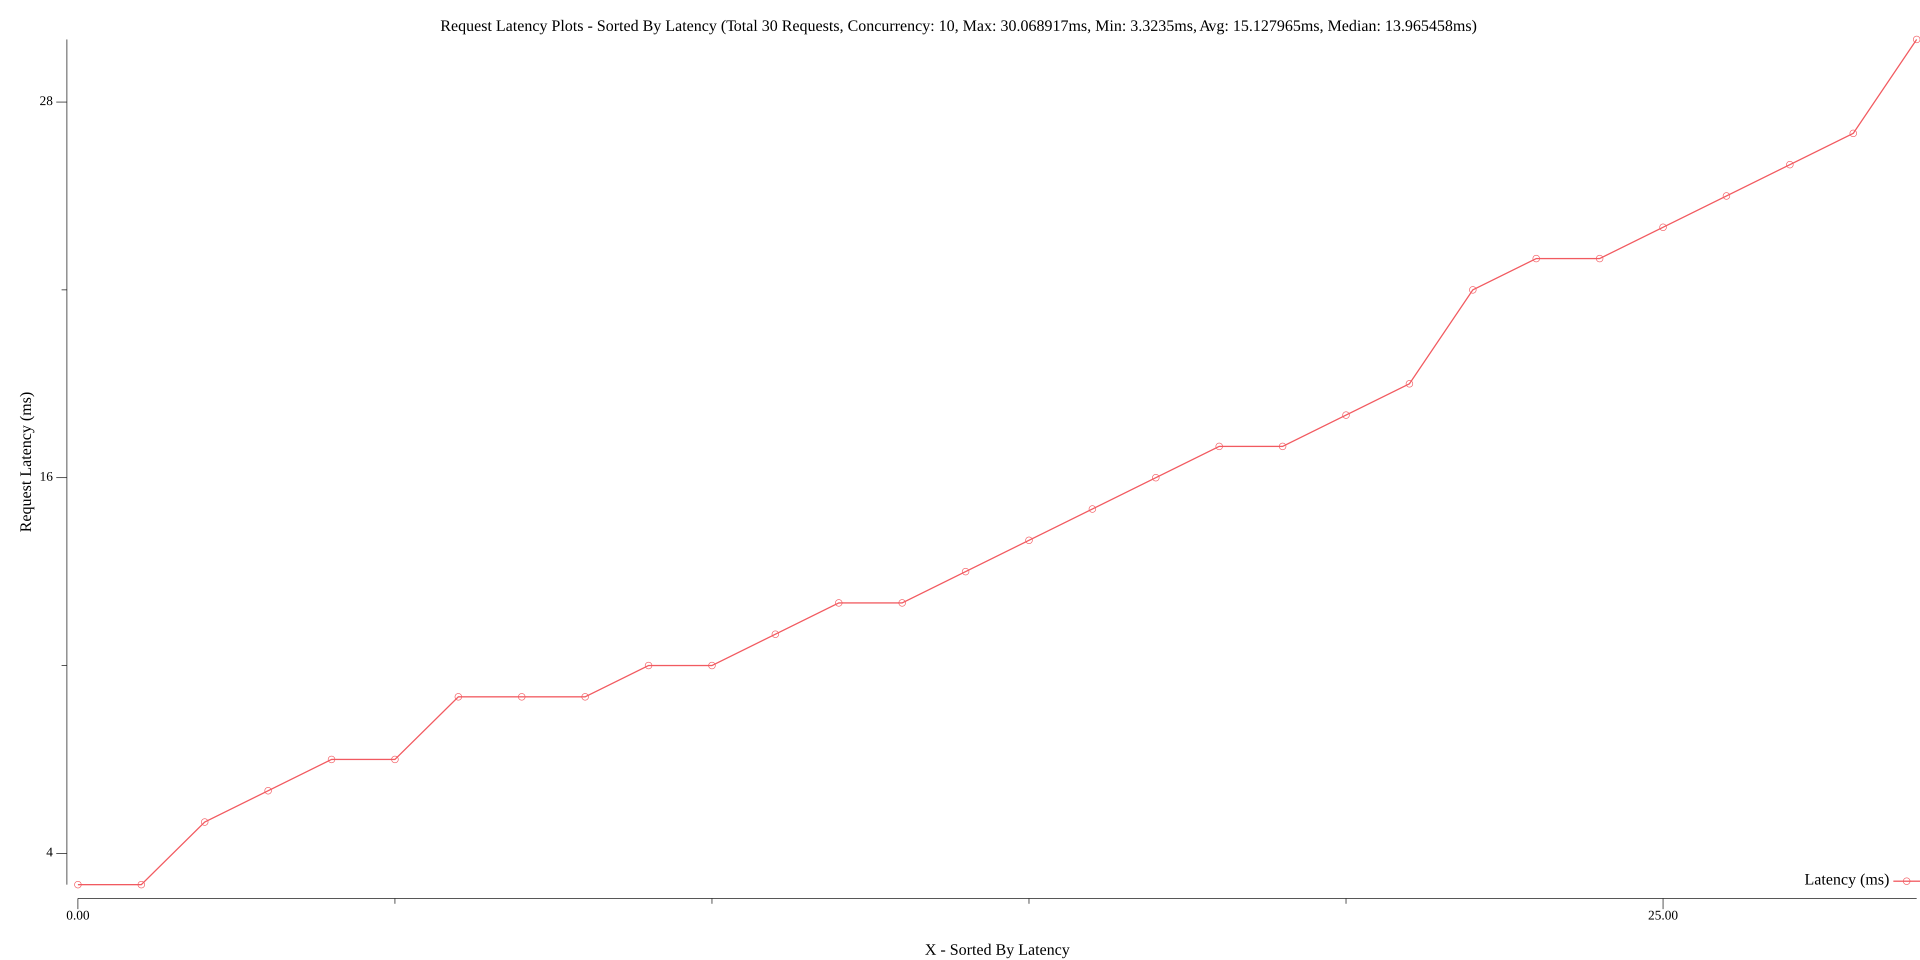
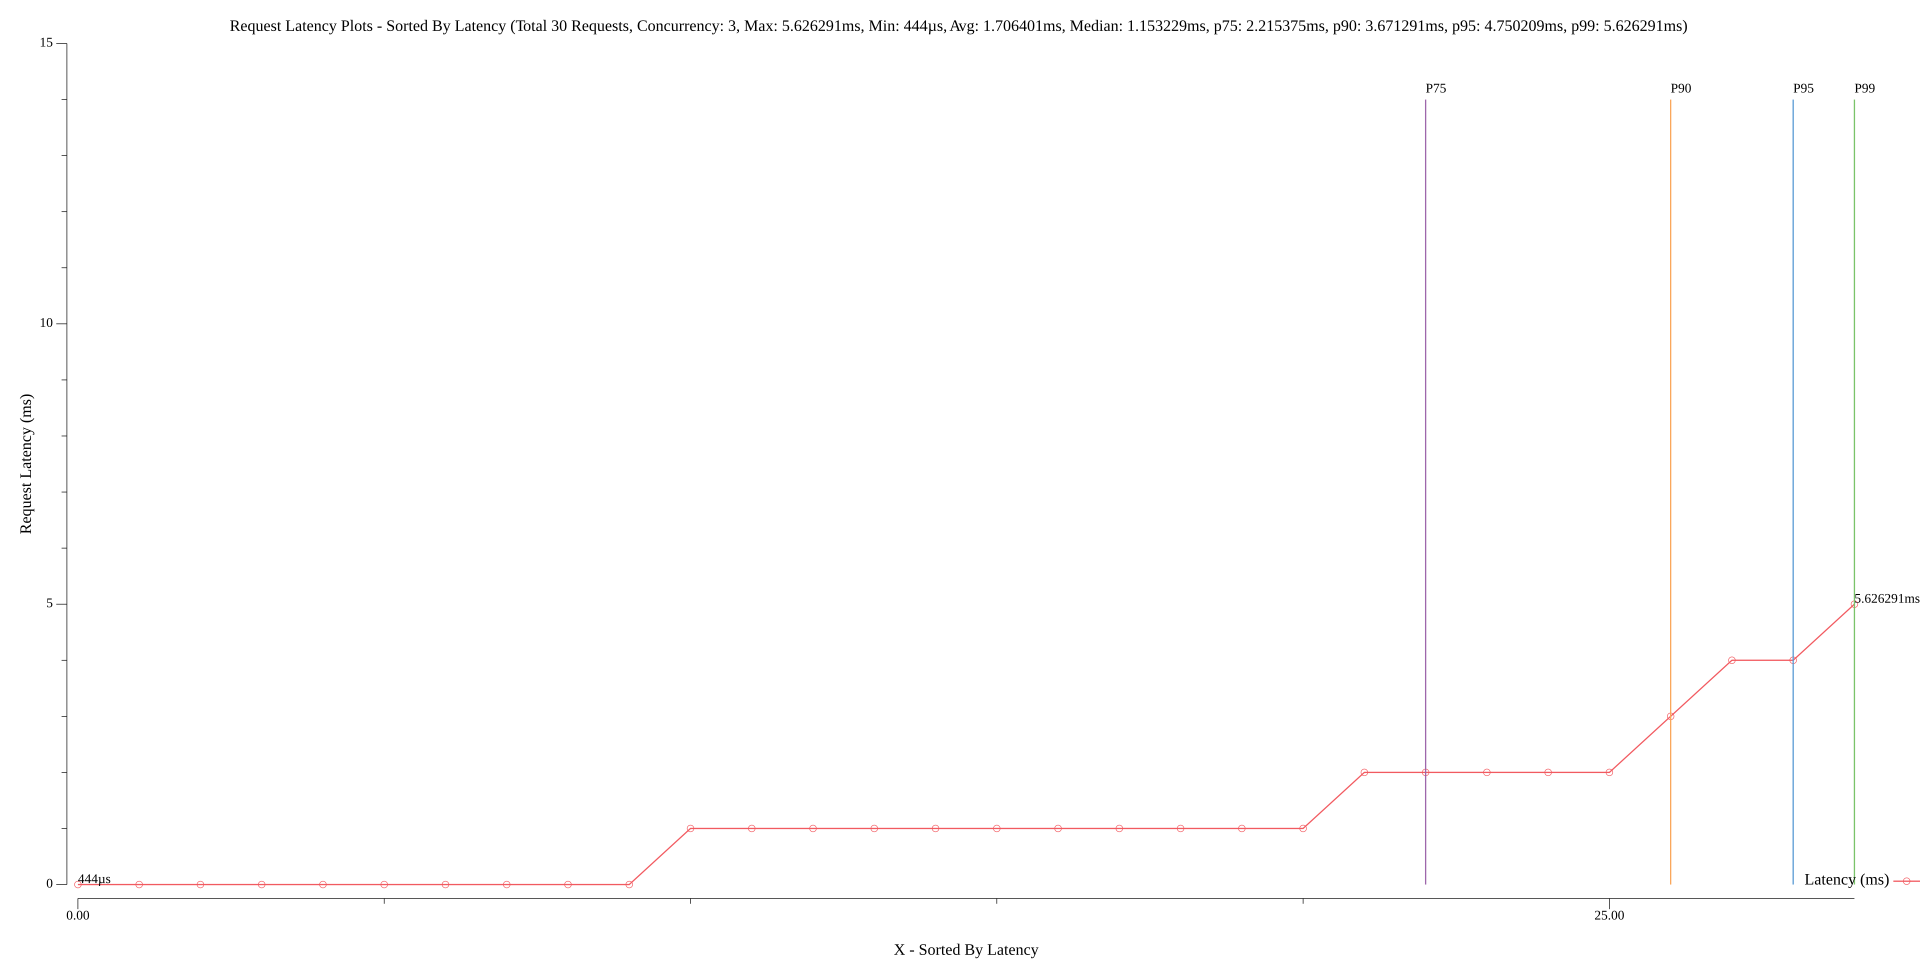
Modified:  README.md Modified:  demo/plots_sorted_by_latency.png Modified:  demo/plots_sorted_by_request_order.png Modified:  test/benchmark_test.go

diff --git a/test/benchmark_test.go b/test/benchmark_test.go
@@ -18,7 +18,7 @@ func TestStartBenchmark(t *testing.T) {
 				Success:    statusCode == 200,
 			}
 		})
-	concurrent := 10
-	round := 50
+	concurrent := 3
+	round := 10
 	benchmarker.StartBenchmark(concurrent, round, sendRequest)
 }

diff --git a/README.md b/README.md
@@ -3,94 +3,76 @@
 ## Demo
 
 ```golang
-unknownErr := func(err error) benchmarker.Result {
-    return benchmarker.Result{
-        HttpStatus: 0,
-        Success:    false,
-        Extra: map[string]any{
-            "ERROR": err.Error(),
-        },
-    }
+func TestStartBenchmark(t *testing.T) {
+	sendRequest := benchmarker.NewRequestSender(
+		func() (*http.Request, error) {
+			return http.NewRequest(http.MethodGet, "http://localhost:80", nil)
+		},
+		func(buf []byte, statusCode int) benchmarker.Result {
+			return benchmarker.Result{
+				HttpStatus: statusCode,
+				Success:    statusCode == 200,
+			}
+		})
+	concurrent := 3
+	round := 10
+	benchmarker.StartBenchmark(concurrent, round, sendRequest)
 }
-
-sendRequest := func(c *http.Client) benchmarker.Result {
-    req, err := http.NewRequest(http.MethodGet, "http://localhost:80", nil)
-    if err != nil {
-        return unknownErr(err)
-    }
-    r, err := c.Do(req)
-    if err != nil {
-        return unknownErr(err)
-    }
-    defer r.Body.Close()
-
-    _, err = io.ReadAll(r.Body)
-    if err != nil {
-        return unknownErr(err)
-    }
-
-    return benchmarker.Result{
-        HttpStatus: r.StatusCode,
-        Success:    r.StatusCode == 200,
-    }
-}
-concurrent := 10
-round := 3
-benchmarker.StartBenchmark(concurrent, round, sendRequest)
 ```
 
 ## Output
 
 ```
-Timestamp: 1724233863043200, Took: 30.068917ms, Success: true, HttpStatus: 200, Extra: map[]
-Timestamp: 1724233863046793, Took: 10.990917ms, Success: true, HttpStatus: 200, Extra: map[]
-Timestamp: 1724233863052979, Took: 17.169125ms, Success: true, HttpStatus: 200, Extra: map[]
-Timestamp: 1724233863057784, Took: 25.15925ms, Success: true, HttpStatus: 200, Extra: map[]
-Timestamp: 1724233863057821, Took: 19.340375ms, Success: true, HttpStatus: 200, Extra: map[]
-Timestamp: 1724233863061849, Took: 10.376875ms, Success: true, HttpStatus: 200, Extra: map[]
-Timestamp: 1724233863062767, Took: 23.098583ms, Success: true, HttpStatus: 200, Extra: map[]
-Timestamp: 1724233863062772, Took: 23.056292ms, Success: true, HttpStatus: 200, Extra: map[]
-Timestamp: 1724233863065420, Took: 5.681333ms, Success: true, HttpStatus: 200, Extra: map[]
-Timestamp: 1724233863070149, Took: 27.529833ms, Success: true, HttpStatus: 200, Extra: map[]
-Timestamp: 1724233863071101, Took: 22.903083ms, Success: true, HttpStatus: 200, Extra: map[]
-Timestamp: 1724233863072227, Took: 18.088833ms, Success: true, HttpStatus: 200, Extra: map[]
-Timestamp: 1724233863073270, Took: 14.90025ms, Success: true, HttpStatus: 200, Extra: map[]
-Timestamp: 1724233863077162, Took: 15.736166ms, Success: true, HttpStatus: 200, Extra: map[]
-Timestamp: 1724233863078156, Took: 24.156916ms, Success: true, HttpStatus: 200, Extra: map[]
-Timestamp: 1724233863082944, Took: 26.08575ms, Success: true, HttpStatus: 200, Extra: map[]
-Timestamp: 1724233863085828, Took: 7.092625ms, Success: true, HttpStatus: 200, Extra: map[]
-Timestamp: 1724233863085866, Took: 12.902042ms, Success: true, HttpStatus: 200, Extra: map[]
-Timestamp: 1724233863086884, Took: 7.136209ms, Success: true, HttpStatus: 200, Extra: map[]
-Timestamp: 1724233863088171, Took: 13.030667ms, Success: true, HttpStatus: 200, Extra: map[]
-Timestamp: 1724233863090316, Took: 9.655708ms, Success: true, HttpStatus: 200, Extra: map[]
-Timestamp: 1724233863092898, Took: 9.403916ms, Success: true, HttpStatus: 200, Extra: map[]
-Timestamp: 1724233863092921, Took: 17.272958ms, Success: true, HttpStatus: 200, Extra: map[]
-Timestamp: 1724233863094005, Took: 12.813875ms, Success: true, HttpStatus: 200, Extra: map[]
-Timestamp: 1724233863094020, Took: 16.179666ms, Success: true, HttpStatus: 200, Extra: map[]
-Timestamp: 1724233863097679, Took: 11.385458ms, Success: true, HttpStatus: 200, Extra: map[]
-Timestamp: 1724233863098768, Took: 9.167917ms, Success: true, HttpStatus: 200, Extra: map[]
-Timestamp: 1724233863102314, Took: 6.761667ms, Success: true, HttpStatus: 200, Extra: map[]
-Timestamp: 1724233863109076, Took: 3.37025ms, Success: true, HttpStatus: 200, Extra: map[]
-Timestamp: 1724233863110200, Took: 3.3235ms, Success: true, HttpStatus: 200, Extra: map[]
+Timestamp: 1724315849189229, Took: 3.671291ms, Success: true, HttpStatus: 200, Extra: map[]
+Timestamp: 1724315849192901, Took: 2.508584ms, Success: true, HttpStatus: 200, Extra: map[]
+Timestamp: 1724315849193780, Took: 1.6275ms, Success: true, HttpStatus: 200, Extra: map[]
+Timestamp: 1724315849193814, Took: 2.531166ms, Success: true, HttpStatus: 200, Extra: map[]
+Timestamp: 1724315849195409, Took: 1.277083ms, Success: true, HttpStatus: 200, Extra: map[]
+Timestamp: 1724315849195410, Took: 5.626291ms, Success: true, HttpStatus: 200, Extra: map[]
+Timestamp: 1724315849196346, Took: 4.750209ms, Success: true, HttpStatus: 200, Extra: map[]
+Timestamp: 1724315849196686, Took: 4.349958ms, Success: true, HttpStatus: 200, Extra: map[]
+Timestamp: 1724315849201037, Took: 1.441166ms, Success: true, HttpStatus: 200, Extra: map[]
+Timestamp: 1724315849201038, Took: 716.791µs, Success: true, HttpStatus: 200, Extra: map[]
+Timestamp: 1724315849201096, Took: 1.389583ms, Success: true, HttpStatus: 200, Extra: map[]
+Timestamp: 1724315849201755, Took: 1.171667ms, Success: true, HttpStatus: 200, Extra: map[]
+Timestamp: 1724315849202479, Took: 2.215375ms, Success: true, HttpStatus: 200, Extra: map[]
+Timestamp: 1724315849202486, Took: 888.375µs, Success: true, HttpStatus: 200, Extra: map[]
+Timestamp: 1724315849202930, Took: 1.899708ms, Success: true, HttpStatus: 200, Extra: map[]
+Timestamp: 1724315849203375, Took: 2.326917ms, Success: true, HttpStatus: 200, Extra: map[]
+Timestamp: 1724315849204695, Took: 1.014625ms, Success: true, HttpStatus: 200, Extra: map[]
+Timestamp: 1724315849204830, Took: 610.041µs, Success: true, HttpStatus: 200, Extra: map[]
+Timestamp: 1724315849205440, Took: 1.134791ms, Success: true, HttpStatus: 200, Extra: map[]
+Timestamp: 1724315849205703, Took: 924.459µs, Success: true, HttpStatus: 200, Extra: map[]
+Timestamp: 1724315849205710, Took: 800.125µs, Success: true, HttpStatus: 200, Extra: map[]
+Timestamp: 1724315849206511, Took: 582.792µs, Success: true, HttpStatus: 200, Extra: map[]
+Timestamp: 1724315849206576, Took: 1.000708ms, Success: true, HttpStatus: 200, Extra: map[]
+Timestamp: 1724315849206627, Took: 814µs, Success: true, HttpStatus: 200, Extra: map[]
+Timestamp: 1724315849207094, Took: 1.107208ms, Success: true, HttpStatus: 200, Extra: map[]
+Timestamp: 1724315849207442, Took: 628.75µs, Success: true, HttpStatus: 200, Extra: map[]
+Timestamp: 1724315849207577, Took: 2.008667ms, Success: true, HttpStatus: 200, Extra: map[]
+Timestamp: 1724315849208071, Took: 598.375µs, Success: true, HttpStatus: 200, Extra: map[]
+Timestamp: 1724315849208202, Took: 1.131833ms, Success: true, HttpStatus: 200, Extra: map[]
+Timestamp: 1724315849208670, Took: 444µs, Success: true, HttpStatus: 200, Extra: map[]
 
 
 --------- Brief ---------------
 
-concurrency: 10
-round: 3
+total_requests: 30
+concurrency: 3
+round: 10
 status_count: map[200:30]
 success_count: map[true:30]
 
 --------- Latency -------------
 
-min: 3.3235ms
-max: 30.068917ms
-median: 13.965458ms
-avg: 15.127965ms
-p75: 22.903083ms
-p90: 25.15925ms
-p95: 27.529833ms
-p99: 30.068917ms
+min: 444µs
+max: 5.626291ms
+median: 1.153229ms
+avg: 1.706401ms
+p75: 2.215375ms
+p90: 3.671291ms
+p95: 4.750209ms
+p99: 5.626291ms
 
 --------- Data ----------------
 
